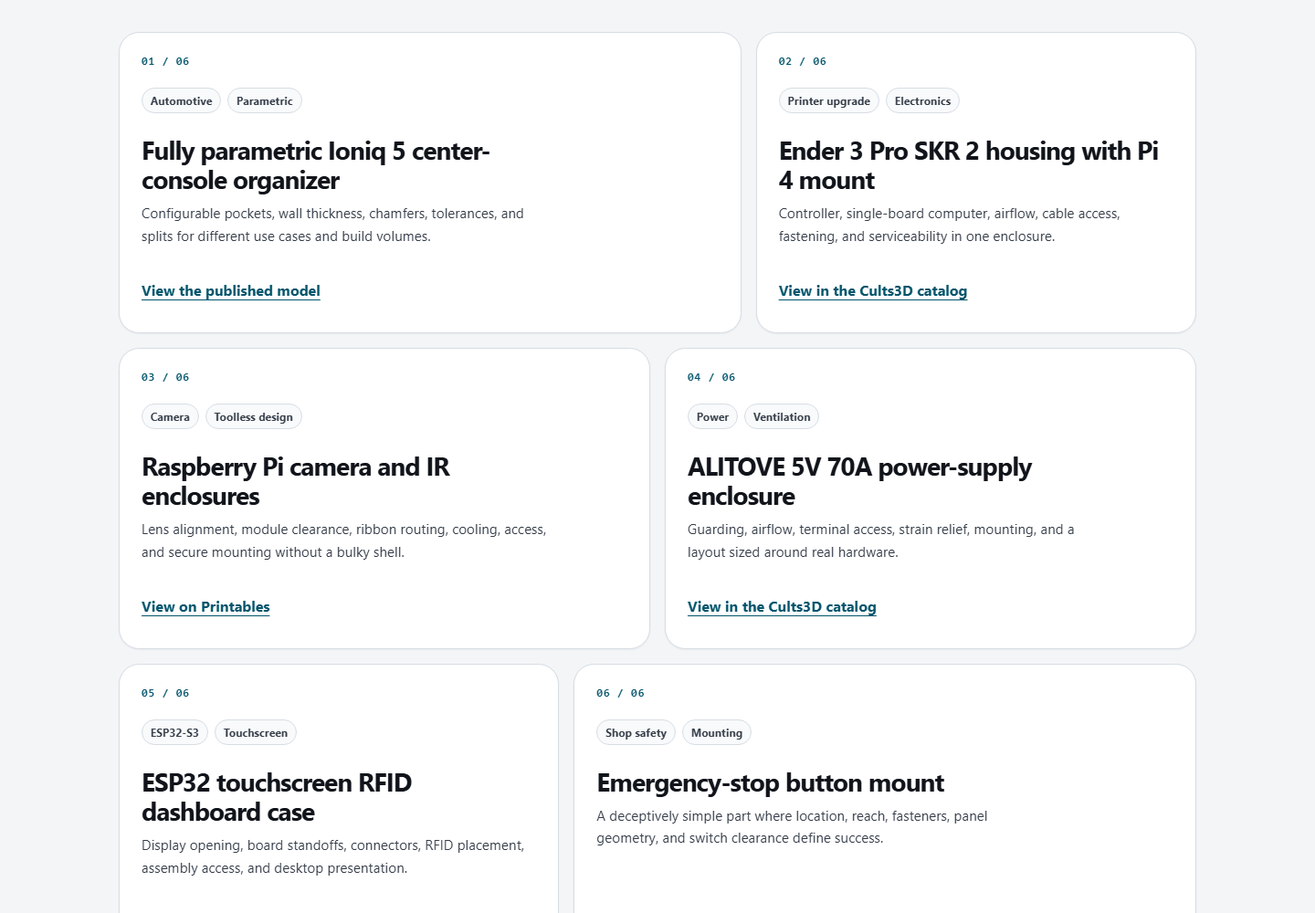
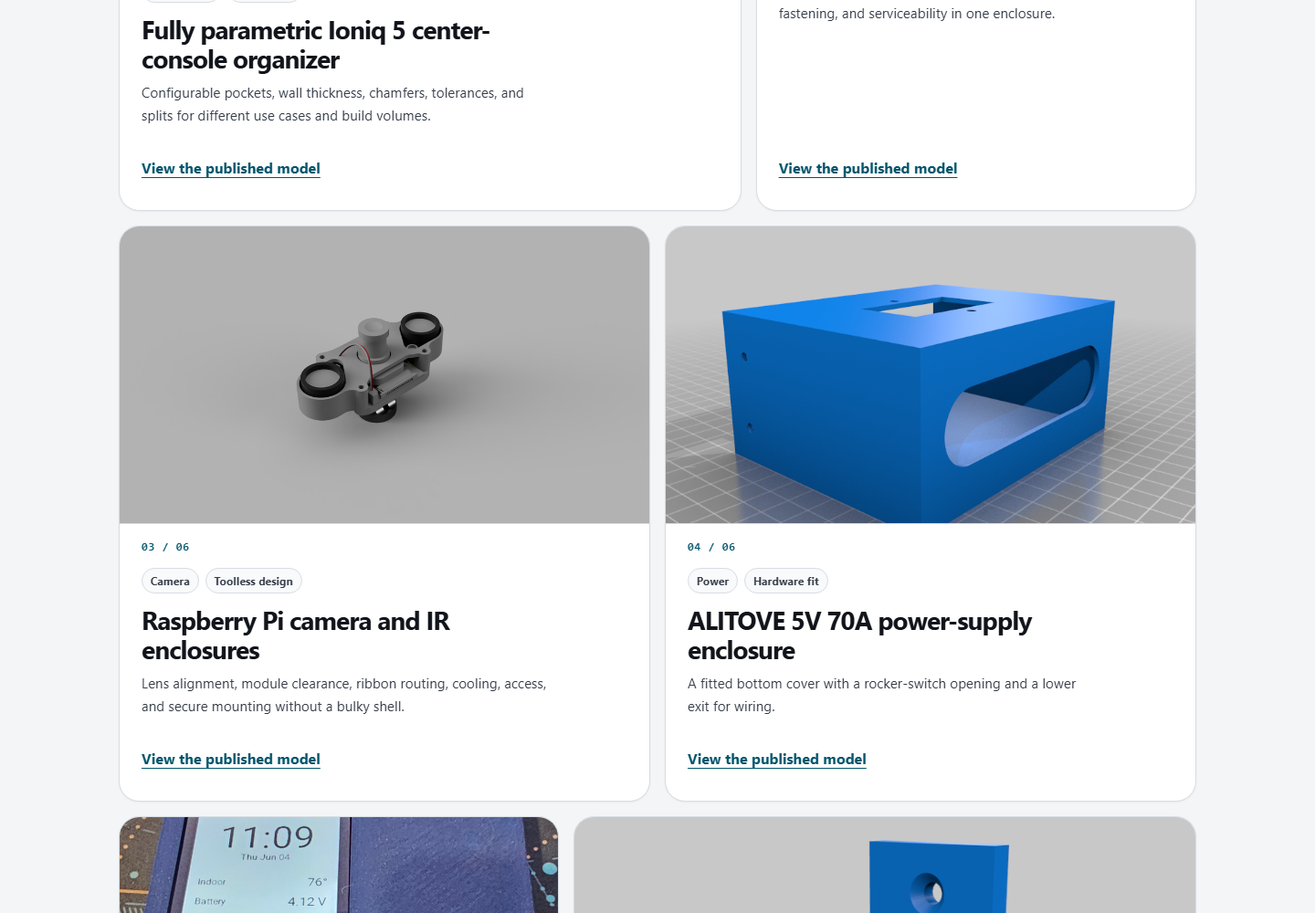
Add sourced project photography and renders to storefront

diff --git a/public/assets/css/site.css b/public/assets/css/site.css
@@ -75,9 +75,11 @@ img,svg{display:block;max-width:100%}button,input,select,textarea{font:inherit}b
 .button{display:inline-flex;min-height:44px;align-items:center;justify-content:center;gap:.55rem;padding:.72rem 1.05rem;border:1px solid transparent;border-radius:.78rem;font-weight:780;line-height:1.15;text-decoration:none;cursor:pointer;transition:transform 150ms ease,background-color 150ms ease,border-color 150ms ease,box-shadow 150ms ease}.button svg{width:19px;height:19px;fill:none;stroke:currentColor;stroke-width:1.8;stroke-linecap:round;stroke-linejoin:round}.button:hover{transform:translateY(-1px)}.button.primary{color:var(--on-accent);background:var(--accent);box-shadow:0 8px 22px color-mix(in srgb,var(--accent) 22%,transparent)}.button.primary:hover{color:var(--on-accent);background:color-mix(in srgb,var(--accent) 88%,#000)}:root[data-theme="dark"] .button.primary{background:var(--accent-bright)}@media(prefers-color-scheme:dark){:root:not([data-theme="light"]) .button.primary{background:var(--accent-bright)}}.button.secondary{color:var(--ink);border-color:var(--line);background:var(--surface);box-shadow:var(--shadow-xs)}.button.secondary:hover{color:var(--ink);border-color:var(--line-strong);background:var(--surface-2)}.button.ghost{color:var(--ink-2);background:transparent}.button.ghost:hover{color:var(--ink);background:var(--surface-3)}.button.small-button{min-height:44px;padding:.56rem .85rem;font-size:.88rem}.button.block{width:100%}.button:disabled{opacity:.58;cursor:not-allowed;transform:none}.action-row{display:flex;flex-wrap:wrap;gap:.75rem;align-items:center}
 .hero{position:relative;overflow:hidden;padding-block:clamp(3.5rem,8vw,7.5rem);border-bottom:1px solid var(--line)}.hero::before{position:absolute;inset:0;content:"";pointer-events:none;background-image:linear-gradient(color-mix(in srgb,var(--line) 36%,transparent) 1px,transparent 1px),linear-gradient(90deg,color-mix(in srgb,var(--line) 36%,transparent) 1px,transparent 1px);background-size:44px 44px;mask-image:linear-gradient(to bottom,black,transparent 78%);opacity:.52}.hero-grid{position:relative;display:grid;grid-template-columns:minmax(0,1.08fr) minmax(390px,.92fr);align-items:center;gap:clamp(2rem,7vw,6.5rem)}.hero-copy{max-width:720px}.hero-copy .lede{max-width:650px}.hero-actions{display:flex;flex-wrap:wrap;gap:.8rem;margin-top:1.75rem}.trust-line{display:flex;flex-wrap:wrap;gap:.65rem 1.25rem;margin-top:1.7rem;color:var(--muted);font-size:.9rem}.trust-line span{display:inline-flex;align-items:center;gap:.45rem}.trust-line span::before{width:7px;height:7px;border-radius:50%;content:"";background:var(--success);box-shadow:0 0 0 4px var(--success-soft)}
 .hero-case{position:relative;align-self:stretch;padding:clamp(1.4rem,3vw,2.2rem);border:1px solid var(--line-strong);border-radius:var(--radius-xl);background:var(--surface);box-shadow:var(--shadow-md)}.hero-case::before{position:absolute;inset:0 auto 0 0;width:4px;content:"";background:var(--accent);border-radius:var(--radius-xl) 0 0 var(--radius-xl)}.hero-case-top{display:flex;flex-wrap:wrap;justify-content:space-between;gap:.5rem 1rem;align-items:baseline}.hero-case-ref{color:var(--muted);font-family:ui-monospace,SFMono-Regular,Consolas,monospace;font-size:.68rem;font-weight:700;letter-spacing:.06em}.hero-case h2{max-width:17ch;margin:clamp(2rem,5vw,3.3rem) 0 .55rem;font-size:clamp(2rem,3.8vw,3.3rem);line-height:1.05;letter-spacing:-.055em}.hero-case>p{max-width:35ch;margin:0 0 1.8rem;color:var(--ink-2);font-size:1rem;line-height:1.55}.hero-case dl{margin:0;border-top:1px solid var(--line)}.hero-case dl div{display:grid;grid-template-columns:7.5rem 1fr;gap:.9rem;padding:.9rem 0;border-bottom:1px solid var(--line)}.hero-case dt{color:var(--muted);font-size:.78rem;font-weight:750;text-transform:uppercase;letter-spacing:.05em}.hero-case dd{margin:0;color:var(--ink-2);font-size:.9rem;line-height:1.5}.hero-case>a{display:inline-flex;min-height:44px;align-items:center;margin-top:1.1rem;color:var(--accent-ink);font-size:.9rem;font-weight:750;text-underline-offset:4px}.proof-grid{display:grid;grid-template-columns:repeat(4,1fr)}.proof-item{padding:1.35rem 1.25rem;border-right:1px solid var(--line)}.proof-item:last-child{border-right:0}.proof-item strong{display:block;font-size:1.12rem;letter-spacing:-.02em}.proof-item span{color:var(--muted);font-size:.84rem}
+.hero-case .hero-project-image{width:100%;height:auto;margin-top:1.25rem;aspect-ratio:16/9;object-fit:cover;border:1px solid var(--line);border-radius:var(--radius-md);background:#edf0f2}.hero-case:has(.hero-project-image) h2{max-width:22ch;margin:1.35rem 0 .55rem;font-size:clamp(1.6rem,2.8vw,2.3rem)}.hero-case:has(.hero-project-image)>p{max-width:48ch;margin-bottom:.4rem}
 .card-grid{display:grid;grid-template-columns:repeat(2,minmax(0,1fr));gap:1rem}.service-card{position:relative;min-height:310px;padding:clamp(1.4rem,3vw,2rem);overflow:hidden;border:1px solid var(--line);border-radius:var(--radius-lg);background:var(--surface);box-shadow:var(--shadow-xs);transition:transform 180ms ease,border-color 180ms ease,box-shadow 180ms ease}.service-card:hover{transform:translateY(-3px);border-color:var(--line-strong);box-shadow:var(--shadow-md)}.service-card.wide{grid-column:span 2;display:grid;grid-template-columns:1.1fr .9fr;align-items:center;gap:2rem}.card-icon{display:grid;width:52px;height:52px;margin-bottom:2.1rem;place-items:center;border-radius:1rem;color:var(--accent);background:var(--accent-soft)}.card-icon svg{width:27px;height:27px;fill:none;stroke:currentColor;stroke-width:1.7;stroke-linecap:round;stroke-linejoin:round}.service-card h3{font-size:clamp(1.4rem,2.5vw,2rem);letter-spacing:-.035em}.service-card p{max-width:560px;color:var(--muted)}.card-link{position:absolute;right:1.5rem;bottom:1.4rem;display:inline-flex;align-items:center;gap:.4rem;font-weight:760;text-decoration:none}.card-link::after{content:"→";transition:transform 150ms ease}.card-link:hover::after{transform:translateX(3px)}.service-card.wide .card-link{position:static;margin-top:.7rem}.machine-lines{display:grid;gap:.6rem;padding:1.3rem;border:1px solid var(--line);border-radius:1rem;background:var(--surface-2)}.machine-lines span{display:flex;height:12px;overflow:hidden;border-radius:99px;background:var(--surface-3)}.machine-lines span::before{width:var(--w,65%);content:"";border-radius:inherit;background:linear-gradient(90deg,var(--accent),var(--accent-bright))}
 .process-grid{display:grid;grid-template-columns:repeat(4,1fr);gap:1.4rem;counter-reset:steps}.process-step{position:relative;padding-top:1.25rem;border-top:2px solid var(--line);counter-increment:steps}.process-step::before{position:absolute;top:-17px;display:grid;width:32px;height:32px;place-items:center;border:2px solid var(--page);border-radius:50%;content:counter(steps,decimal-leading-zero);color:var(--on-accent);background:var(--accent);font-family:var(--font-mono);font-size:.72rem;font-weight:800}.process-step h3{margin-top:1.3rem;margin-bottom:.4rem;font-size:1.06rem}.process-step p{color:var(--muted);font-size:.92rem}
 .portfolio-grid{display:grid;grid-template-columns:repeat(12,1fr);gap:1rem}.project-card{display:flex;min-height:330px;flex-direction:column;overflow:hidden;border:1px solid var(--line);border-radius:var(--radius-lg);background:var(--surface);box-shadow:var(--shadow-xs);transition:border-color 150ms ease,transform 150ms ease}.project-card:hover{border-color:var(--line-strong);transform:translateY(-2px)}.project-card.large{grid-column:span 7}.project-card.small-card{grid-column:span 5}.project-card.half{grid-column:span 6}.project-number{display:block;padding:1.35rem 1.5rem 0;color:var(--accent-ink);font-family:ui-monospace,SFMono-Regular,Consolas,monospace;font-size:.75rem;font-weight:750;letter-spacing:.08em}.project-overlay{display:flex;min-height:0;flex:1;flex-direction:column;align-items:flex-start;padding:1.2rem 1.5rem 1.5rem;color:var(--ink)}.project-overlay h3{max-width:26ch;margin:1.5rem 0 .55rem;font-size:clamp(1.35rem,2.5vw,1.75rem);line-height:1.15;letter-spacing:-.035em}.project-overlay p{max-width:55ch;margin:0 0 1.5rem;color:var(--ink-2);font-size:.95rem;line-height:1.6}.project-overlay a{display:inline-flex;min-height:44px;align-items:center;margin-top:auto;color:var(--accent-ink);font-weight:750;text-decoration:underline;text-underline-offset:4px}.project-overlay a:focus-visible{outline:3px solid var(--focus);outline-offset:3px;border-radius:.2rem}.tag-row{display:flex;flex-wrap:wrap;gap:.45rem}.tag{display:inline-flex;min-height:28px;align-items:center;padding:.2rem .55rem;border:1px solid var(--line);border-radius:99px;color:var(--ink-2);background:var(--surface-2);font-size:.73rem;font-weight:750;letter-spacing:.02em}.tag.accent{color:var(--accent-ink);border-color:color-mix(in srgb,var(--accent) 24%,var(--line));background:var(--accent-soft)}
+.project-card>.project-image{width:100%;height:auto;aspect-ratio:16/9;object-fit:cover;border-bottom:1px solid var(--line);background:#d8dcdf}.project-card:has(>.project-image) .project-number{padding-top:1rem}.project-card:has(>.project-image) .project-overlay{padding-top:.8rem}.project-card:has(>.project-image) .project-overlay h3{margin-top:.8rem}
 .split{display:grid;grid-template-columns:1fr 1fr;align-items:center;gap:clamp(2rem,7vw,6rem)}.quote-panel{position:relative;padding:clamp(1.7rem,4vw,3rem);border:1px solid var(--line);border-radius:var(--radius-xl);background:var(--surface);box-shadow:var(--shadow-md)}.quote-panel::before{display:block;margin-bottom:1rem;content:"“";color:var(--accent);font-family:Georgia,serif;font-size:5rem;line-height:.6}.quote-panel blockquote{margin:0;color:var(--ink-2);font-size:clamp(1.25rem,2.6vw,1.8rem);font-weight:680;line-height:1.4;letter-spacing:-.03em}.quote-panel footer{margin-top:1.25rem;color:var(--muted);font-size:.9rem}.capability-list{display:grid;gap:.85rem;padding:0;list-style:none}.capability-list li{display:grid;grid-template-columns:30px 1fr;gap:.75rem;align-items:start}.capability-list li::before{display:grid;width:26px;height:26px;place-items:center;border-radius:50%;content:"✓";color:var(--success);background:var(--success-soft);font-weight:900}.capability-list strong{display:block}.capability-list span{display:block;color:var(--muted);font-size:.9rem}
 .cta-panel{position:relative;overflow:hidden;padding:clamp(2rem,7vw,5rem);border-radius:var(--radius-xl);color:#fff;background:#111820;box-shadow:var(--shadow-lg)}.cta-panel::before{position:absolute;inset:-40% -20% auto auto;width:540px;height:540px;border-radius:50%;content:"";background:radial-gradient(circle,color-mix(in srgb,var(--accent-bright) 72%,transparent),transparent 65%);opacity:.7}.cta-panel>*{position:relative}.cta-panel .eyebrow{color:#9ee7f2}.cta-panel h2{max-width:780px}.cta-panel p{max-width:690px;color:#c7d0db}.cta-panel .button.primary{color:#09212a;background:#64cde2}.cta-panel .button.secondary{color:#fff;border-color:#3a4655;background:#1a2330}
 .page-hero{padding-block:clamp(3.5rem,8vw,7rem);border-bottom:1px solid var(--line)}.page-hero .lede{max-width:760px}.breadcrumbs{display:flex;gap:.45rem;margin-bottom:1.8rem;color:var(--muted);font-size:.85rem}.breadcrumbs a{color:var(--muted)}.breadcrumbs span::before{margin-right:.45rem;content:"/"}.stat-row{display:flex;flex-wrap:wrap;gap:1rem;margin-top:2rem}.stat{min-width:160px;padding:1rem 1.1rem;border:1px solid var(--line);border-radius:var(--radius-md);background:var(--surface)}.stat strong{display:block;font-size:1.35rem;letter-spacing:-.035em}.stat span{color:var(--muted);font-size:.8rem}

diff --git a/public/portfolio.html b/public/portfolio.html
@@ -14,12 +14,12 @@
 
     <section class="section" aria-labelledby="portfolio-title"><div class="container"><div class="section-header"><span class="eyebrow">Selected projects</span><h2 class="h2" id="portfolio-title">Different objects. Same questions.</h2><p class="lede">How does it fit? What gets hot? Where do the wires go? Can it be assembled, cleaned, adjusted, and repaired? What orientation makes the part stronger?</p></div>
       <div class="portfolio-grid">
-<article class="project-card large"><span class="project-number" aria-hidden="true">01 / 06</span><div class="project-overlay"><div class="tag-row"><span class="tag">Automotive</span><span class="tag">Parametric</span></div><h3>Fully parametric Ioniq 5 center-console organizer</h3><p>Configurable pockets, wall thickness, chamfers, tolerances, and splits for different use cases and build volumes.</p><a href="https://cults3d.com/en/3d-model/game/fully-parametric-ioniq-5-center-console-organizer" target="_blank" rel="noopener">View the published model</a></div></article>
-        <article class="project-card small-card"><span class="project-number" aria-hidden="true">02 / 06</span><div class="project-overlay"><div class="tag-row"><span class="tag">Printer upgrade</span><span class="tag">Electronics</span></div><h3>Ender 3 Pro SKR 2 housing with Pi 4 mount</h3><p>Controller, single-board computer, airflow, cable access, fastening, and serviceability in one enclosure.</p><a href="https://cults3d.com/en/users/JerrettDavis/3d-models" target="_blank" rel="noopener">View in the Cults3D catalog</a></div></article>
-        <article class="project-card half"><span class="project-number" aria-hidden="true">03 / 06</span><div class="project-overlay"><div class="tag-row"><span class="tag">Camera</span><span class="tag">Toolless design</span></div><h3>Raspberry Pi camera and IR enclosures</h3><p>Lens alignment, module clearance, ribbon routing, cooling, access, and secure mounting without a bulky shell.</p><a href="https://www.printables.com/@Jdsfighter" target="_blank" rel="noopener">View on Printables</a></div></article>
-        <article class="project-card half"><span class="project-number" aria-hidden="true">04 / 06</span><div class="project-overlay"><div class="tag-row"><span class="tag">Power</span><span class="tag">Ventilation</span></div><h3>ALITOVE 5V 70A power-supply enclosure</h3><p>Guarding, airflow, terminal access, strain relief, mounting, and a layout sized around real hardware.</p><a href="https://cults3d.com/en/users/JerrettDavis/3d-models" target="_blank" rel="noopener">View in the Cults3D catalog</a></div></article>
-        <article class="project-card small-card"><span class="project-number" aria-hidden="true">05 / 06</span><div class="project-overlay"><div class="tag-row"><span class="tag">ESP32-S3</span><span class="tag">Touchscreen</span></div><h3>ESP32 touchscreen RFID dashboard case</h3><p>Display opening, board standoffs, connectors, RFID placement, assembly access, and desktop presentation.</p><a href="https://www.printables.com/@Jdsfighter" target="_blank" rel="noopener">View on Printables</a></div></article>
-        <article class="project-card large"><span class="project-number" aria-hidden="true">06 / 06</span><div class="project-overlay"><div class="tag-row"><span class="tag">Shop safety</span><span class="tag">Mounting</span></div><h3>Emergency-stop button mount</h3><p>A deceptively simple part where location, reach, fasteners, panel geometry, and switch clearance define success.</p><a href="https://cults3d.com/en/users/JerrettDavis/3d-models" target="_blank" rel="noopener">View in the Cults3D catalog</a></div></article>
+<article class="project-card large"><img class="project-image" src="/assets/images/projects/ioniq-console-organizer.png" alt="Printed Ioniq 5 center-console organizer fitted in the car with sunglasses in one compartment" width="1024" height="771" loading="lazy"><span class="project-number" aria-hidden="true">01 / 06</span><div class="project-overlay"><div class="tag-row"><span class="tag">Automotive</span><span class="tag">Parametric</span></div><h3>Fully parametric Ioniq 5 center-console organizer</h3><p>Configurable pockets, wall thickness, chamfers, tolerances, and splits for different use cases and build volumes.</p><a href="https://cults3d.com/en/3d-model/game/fully-parametric-ioniq-5-center-console-organizer" target="_blank" rel="noopener">View the published model</a></div></article>
+        <article class="project-card small-card"><img class="project-image" src="/assets/images/projects/ender-skr2-pi-housing.png" alt="Render of the Ender 3 Pro controller housing with Pi 4 mount, vented lids, and accessible ports" width="1024" height="576" loading="lazy"><span class="project-number" aria-hidden="true">02 / 06</span><div class="project-overlay"><div class="tag-row"><span class="tag">Printer upgrade</span><span class="tag">Electronics</span></div><h3>Ender 3 Pro SKR 2 housing with Pi 4 mount</h3><p>Controller, single-board computer, airflow, cable access, fastening, and serviceability in one enclosure.</p><a href="https://cults3d.com/en/3d-model/tool/ender-3-pro-skr-2-housing-with-pi-4-mount" target="_blank" rel="noopener">View the published model</a></div></article>
+        <article class="project-card half"><img class="project-image" src="/assets/images/projects/pi-camera-ir-enclosure.png" alt="Render of a fitted Raspberry Pi camera enclosure with two IR module openings and routed wiring" width="1024" height="576" loading="lazy"><span class="project-number" aria-hidden="true">03 / 06</span><div class="project-overlay"><div class="tag-row"><span class="tag">Camera</span><span class="tag">Toolless design</span></div><h3>Raspberry Pi camera and IR enclosures</h3><p>Lens alignment, module clearance, ribbon routing, cooling, access, and secure mounting without a bulky shell.</p><a href="https://cults3d.com/en/3d-model/tool/enclosure-for-raspberry-pi-camera-with-ir-modules" target="_blank" rel="noopener">View the published model</a></div></article>
+        <article class="project-card half"><img class="project-image" src="/assets/images/projects/alitove-psu-cover.png" alt="Blue CAD render of a power-supply bottom cover with a rocker-switch opening and cable exit" width="800" height="600" loading="lazy"><span class="project-number" aria-hidden="true">04 / 06</span><div class="project-overlay"><div class="tag-row"><span class="tag">Power</span><span class="tag">Hardware fit</span></div><h3>ALITOVE 5V 70A power-supply enclosure</h3><p>A fitted bottom cover with a rocker-switch opening and a lower exit for wiring.</p><a href="https://cults3d.com/en/3d-model/tool/alitove-5v-power-supply-70a-350w-enclosure" target="_blank" rel="noopener">View the published model</a></div></article>
+        <article class="project-card small-card"><img class="project-image" src="/assets/images/projects/esp32-rfid-dashboard.jpg" alt="Printed blue ESP32-S3 touchscreen dashboard case showing time, temperature, and battery status" width="1868" height="1829" loading="lazy"><span class="project-number" aria-hidden="true">05 / 06</span><div class="project-overlay"><div class="tag-row"><span class="tag">ESP32-S3</span><span class="tag">Touchscreen</span></div><h3>ESP32 touchscreen RFID dashboard case</h3><p>Display opening, board standoffs, connectors, RFID placement, assembly access, and desktop presentation.</p><a href="https://www.printables.com/model/1745185-esp32-s3-28-touchscreen-rfid-dashboard-case" target="_blank" rel="noopener">View on Printables</a></div></article>
+        <article class="project-card large"><img class="project-image" src="/assets/images/projects/emergency-stop-render.png" alt="Blue CAD render of an L-shaped emergency-stop button mount with two fastening holes" width="800" height="600" loading="lazy"><span class="project-number" aria-hidden="true">06 / 06</span><div class="project-overlay"><div class="tag-row"><span class="tag">Shop safety</span><span class="tag">Mounting</span></div><h3>Emergency-stop button mount</h3><p>A deceptively simple part where location, reach, fasteners, panel geometry, and switch clearance define success.</p><a href="https://cults3d.com/en/3d-model/gadget/emergency-stop-button-mount" target="_blank" rel="noopener">View the published model</a></div></article>
       </div>
     </div></section>
 

diff --git a/public/index.html b/public/index.html
@@ -36,11 +36,11 @@
           </div>
         </div>
         <aside class="hero-case" aria-label="Example published project">
-          <div class="hero-case-top"><span class="eyebrow">From the public catalog</span><span class="hero-case-ref">01 / FIT &amp; FUNCTION</span></div>
-          <h2>Ioniq 5 console organizer</h2>
-          <p>A useful part starts with the awkward space it has to fit.</p>
-          <dl><div><dt>Starting point</dt><dd>A console with no organizer that matched how it was used.</dd></div><div><dt>Design decisions</dt><dd>Adjustable pockets, wall thickness, tolerances, and splits for different printers.</dd></div><div><dt>Result</dt><dd>A published parametric model that can be changed without rebuilding it.</dd></div></dl>
-          <a href="https://cults3d.com/en/3d-model/game/fully-parametric-ioniq-5-center-console-organizer" target="_blank" rel="noopener">Inspect the published model ↗</a>
+          <div class="hero-case-top"><span class="eyebrow">Published work</span><span class="hero-case-ref">PRINTER ELECTRONICS</span></div>
+          <img class="project-image hero-project-image" src="/assets/images/projects/ender-skr2-pi-housing.png" alt="Render of the Ender 3 Pro controller housing with Pi 4 mount, vented lids, and accessible ports" width="1024" height="576" fetchpriority="high">
+          <h2>One enclosure. Several real constraints.</h2>
+          <p>This Ender 3 Pro housing brings a controller and Raspberry Pi together while keeping cooling, cables, ports, and service access in view.</p>
+          <a href="https://cults3d.com/en/3d-model/tool/ender-3-pro-skr-2-housing-with-pi-4-mount" target="_blank" rel="noopener">Inspect the published model ↗</a>
         </aside>
 </div>
     </section>
@@ -123,8 +123,8 @@
           <p class="lede">The published catalog leans practical: organizers that fit, enclosures that route cables, mounts that survive use, and printer upgrades that are serviceable later.</p>
         </div>
         <div class="portfolio-grid">
-          <article class="project-card large"><span class="project-number" aria-hidden="true">01 / 02</span><div class="project-overlay"><span class="tag">Parametric CAD</span><h3>Ioniq 5 center-console organizer</h3><p>Adjustable pockets, wall thickness, clearances, and split geometry for different printers.</p><a href="https://cults3d.com/en/3d-model/game/fully-parametric-ioniq-5-center-console-organizer" target="_blank" rel="noopener">View the published organizer</a></div></article>
-          <article class="project-card small-card"><span class="project-number" aria-hidden="true">02 / 02</span><div class="project-overlay"><span class="tag">Electronics</span><h3>ESP32 touchscreen dashboard case</h3><p>Display, RFID, access, retention, and bench-friendly assembly.</p><a href="https://www.printables.com/@Jdsfighter" target="_blank" rel="noopener">View the portfolio on Printables</a></div></article>
+          <article class="project-card large"><img class="project-image" src="/assets/images/projects/pi-camera-ir-enclosure.png" alt="Render of a fitted Raspberry Pi camera enclosure with two IR module openings and routed wiring" width="1024" height="576" loading="lazy"><span class="project-number" aria-hidden="true">01 / 02</span><div class="project-overlay"><span class="tag">Electronics enclosure</span><h3>Raspberry Pi camera and IR housing</h3><p>Lens alignment, module clearance, wiring, cooling, and a mount that stays accessible.</p><a href="https://cults3d.com/en/3d-model/tool/enclosure-for-raspberry-pi-camera-with-ir-modules" target="_blank" rel="noopener">View the published enclosure</a></div></article>
+          <article class="project-card small-card"><img class="project-image" src="/assets/images/projects/emergency-stop-render.png" alt="Blue CAD render of an L-shaped emergency-stop button mount with two fastening holes" width="800" height="600" loading="lazy"><span class="project-number" aria-hidden="true">02 / 02</span><div class="project-overlay"><span class="tag">Shop hardware</span><h3>Emergency-stop button mount</h3><p>A small part defined by switch clearance, reach, and a secure mounting surface.</p><a href="https://cults3d.com/en/3d-model/gadget/emergency-stop-button-mount" target="_blank" rel="noopener">View the published mount</a></div></article>
         </div>
         <div class="action-row" style="margin-top:1.2rem"><a class="button secondary" href="/portfolio.html">See more project types</a><a class="button ghost" href="/order.html">Start with your own problem →</a></div>
       </div>

diff --git a/tests/e2e/test_public_site.py b/tests/e2e/test_public_site.py
@@ -81,3 +81,20 @@ def test_published_work_is_readable_without_decorative_images() -> None:
         assert page.locator(".project-card a").evaluate_all("els => els.every(a => a.getBoundingClientRect().height >= 44)")
         assert page.evaluate("document.documentElement.scrollWidth <= document.documentElement.clientWidth")
         site.assert_no_page_errors()
+
+
+def test_published_projects_show_their_own_work_images() -> None:
+    with SiteBrowser(viewport=(1440, 1000), color_scheme="light") as site:
+        home = site.load("/")
+        featured = home.locator(".hero-case img.project-image")
+        assert featured.count() == 1
+        assert "Ender 3 Pro" in featured.get_attribute("alt")
+        assert featured.evaluate("img => img.complete && img.naturalWidth > 0")
+
+        work = site.load("/portfolio.html")
+        images = work.locator(".project-card img.project-image")
+        assert images.count() == 6
+        assert images.evaluate_all(
+            "els => els.every(img => img.complete && img.naturalWidth > 0 && img.alt.trim().length > 12)"
+        )
+        site.assert_no_page_errors()

diff --git a/tests/audit/audit.py b/tests/audit/audit.py
@@ -185,6 +185,10 @@ def audit_profile(profile_name: str, viewport: tuple[int, int], color_scheme: st
     with SiteBrowser(viewport=viewport, color_scheme=color_scheme) as site:
         for route, label in ROUTES:
             page = site.load(route)
+            for image in page.locator("img[loading='lazy']").all():
+                image.scroll_into_view_if_needed()
+                image.evaluate("img => img.decode()")
+            page.evaluate("window.scrollTo(0, 0)")
             dom = page.evaluate(DOM_AUDIT)
             contrast = page.evaluate(CONTRAST_AUDIT)
             profile = f"{profile_name}/{color_scheme} {viewport[0]}×{viewport[1]}"

diff --git a/tests/e2e/test_icons_and_smoke.py b/tests/e2e/test_icons_and_smoke.py
@@ -48,6 +48,9 @@ def test_every_page_renders_header_footer_icons_and_images_without_errors() -> N
             # Every image on the page finished loading successfully.
             images = page.locator("img")
             if images.count():
+                for image in images.all():
+                    image.scroll_into_view_if_needed()
+                    image.evaluate("img => img.decode()")
                 assert images.evaluate_all(
                     "els => els.every(img => img.complete && img.naturalWidth > 0)"
                 ), route

diff --git a/docs/PORTFOLIO-SOURCES.md b/docs/PORTFOLIO-SOURCES.md
@@ -6,7 +6,16 @@
 - Cults3D: https://cults3d.com/en/users/JerrettDavis/3d-models
 - Thingiverse example: https://www.thingiverse.com/thing:6230499
 
-The site links to those public sources but does not copy marketplace screenshots. All portfolio card artwork in `public/assets/images/portfolio/` is an original SVG interpretation created for this repository.
+The site links to those public sources and uses selected model-listing images uploaded under Jerrett Davis's Cults3D profile, with the owner's approval for storefront use. The images are hosted locally rather than hotlinked; they are project images, not marketplace screenshots or community makes. Other artwork in `public/assets/images/portfolio/` is an original SVG interpretation created for this repository.
+
+| Local image | Listing source | Original listing image |
+|---|---|---|
+| `projects/ioniq-console-organizer.png` | [Ioniq 5 center-console organizer](https://cults3d.com/en/3d-model/game/fully-parametric-ioniq-5-center-console-organizer) | Cults3D listing photo of the printed tray in the car |
+| `projects/ender-skr2-pi-housing.png` | [Ender 3 Pro SKR 2 housing](https://cults3d.com/en/3d-model/tool/ender-3-pro-skr-2-housing-with-pi-4-mount) | `Completed-With-Components.PNG` |
+| `projects/pi-camera-ir-enclosure.png` | [Raspberry Pi camera and IR enclosure](https://cults3d.com/en/3d-model/tool/enclosure-for-raspberry-pi-camera-with-ir-modules) | `Top_Shot_with_Camera.png` |
+| `projects/alitove-psu-cover.png` | [ALITOVE 5V 70A cover](https://cults3d.com/en/3d-model/tool/alitove-5v-power-supply-70a-350w-enclosure) | `Bottom_Cover.png` |
+| `projects/esp32-rfid-dashboard.jpg` | [ESP32-S3 touchscreen RFID dashboard case](https://www.printables.com/model/1745185-esp32-s3-28-touchscreen-rfid-dashboard-case) | `20260604_230932.jpg` |
+| `projects/emergency-stop-render.png` | [Emergency-stop button mount](https://cults3d.com/en/3d-model/gadget/emergency-stop-button-mount) | `emergency-button-mount.png` |
 
 ## Published work used to establish direction
 
@@ -49,7 +58,7 @@ These works support the site positioning around:
 
 - Confirm every direct marketplace URL still resolves.
 - Replace profile links with direct model links where available.
-- Add real project photography only when the image is owned or licensed for this site.
+- Add further real project photography only when the image is owned or licensed for this site; a marketplace user's make is not automatically the model author's photograph.
 - Do not imply that public downloads are customer commissions unless they were.
 - Preserve the source platform's model license and attribution requirements.
 - Remove download/follower counts from marketing copy unless there is a reason to maintain them.

diff --git a/docs/UX-AUDIT.md b/docs/UX-AUDIT.md
@@ -1,7 +1,7 @@
 # UX, Accessibility, and Responsive Audit
 
 **Result: PASS**  
-Generated: 2026-09-14T01:39:28.368493+00:00  
+Generated: 2026-09-14T23:22:09.926297+00:00  
 Automated checks: **193/193 passed** across 8 routes, desktop light mode, mobile dark mode, and a separate keyboard-focus sequence.
 
 ## What was exercised
